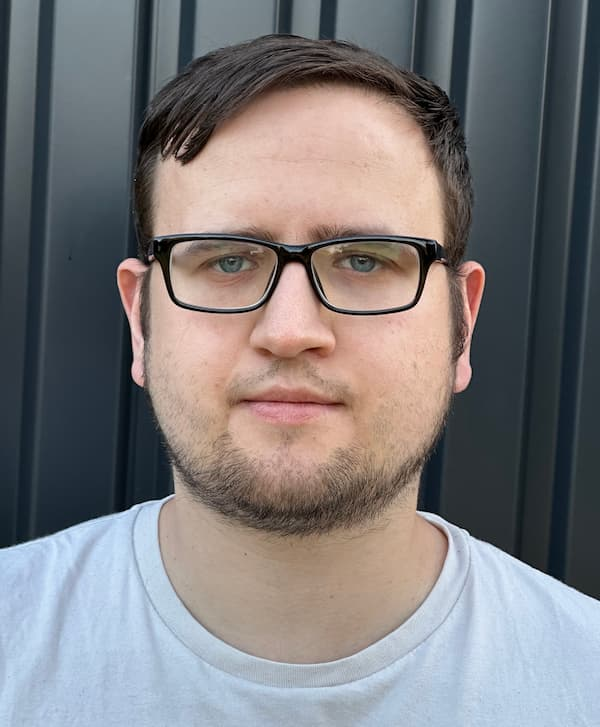
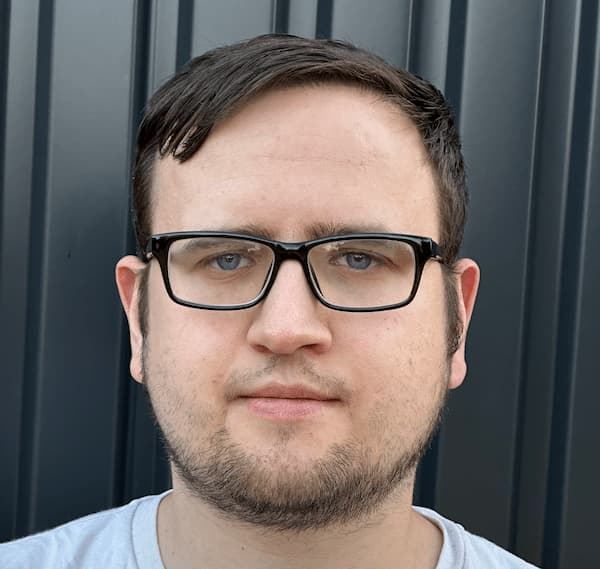
update member pictures

diff --git a/components/Team.tsx b/components/Team.tsx
@@ -32,7 +32,7 @@ const members = [
 	{
 		name: "Sven",
 		title: "Moderatorfuchs",
-		image: "sven2.jpg",
+		image: "sven.jpg",
 		social: {
 			url: "https://chaos.social/@svenraskin",
 			text: "@svenraskin@chaos.social",
